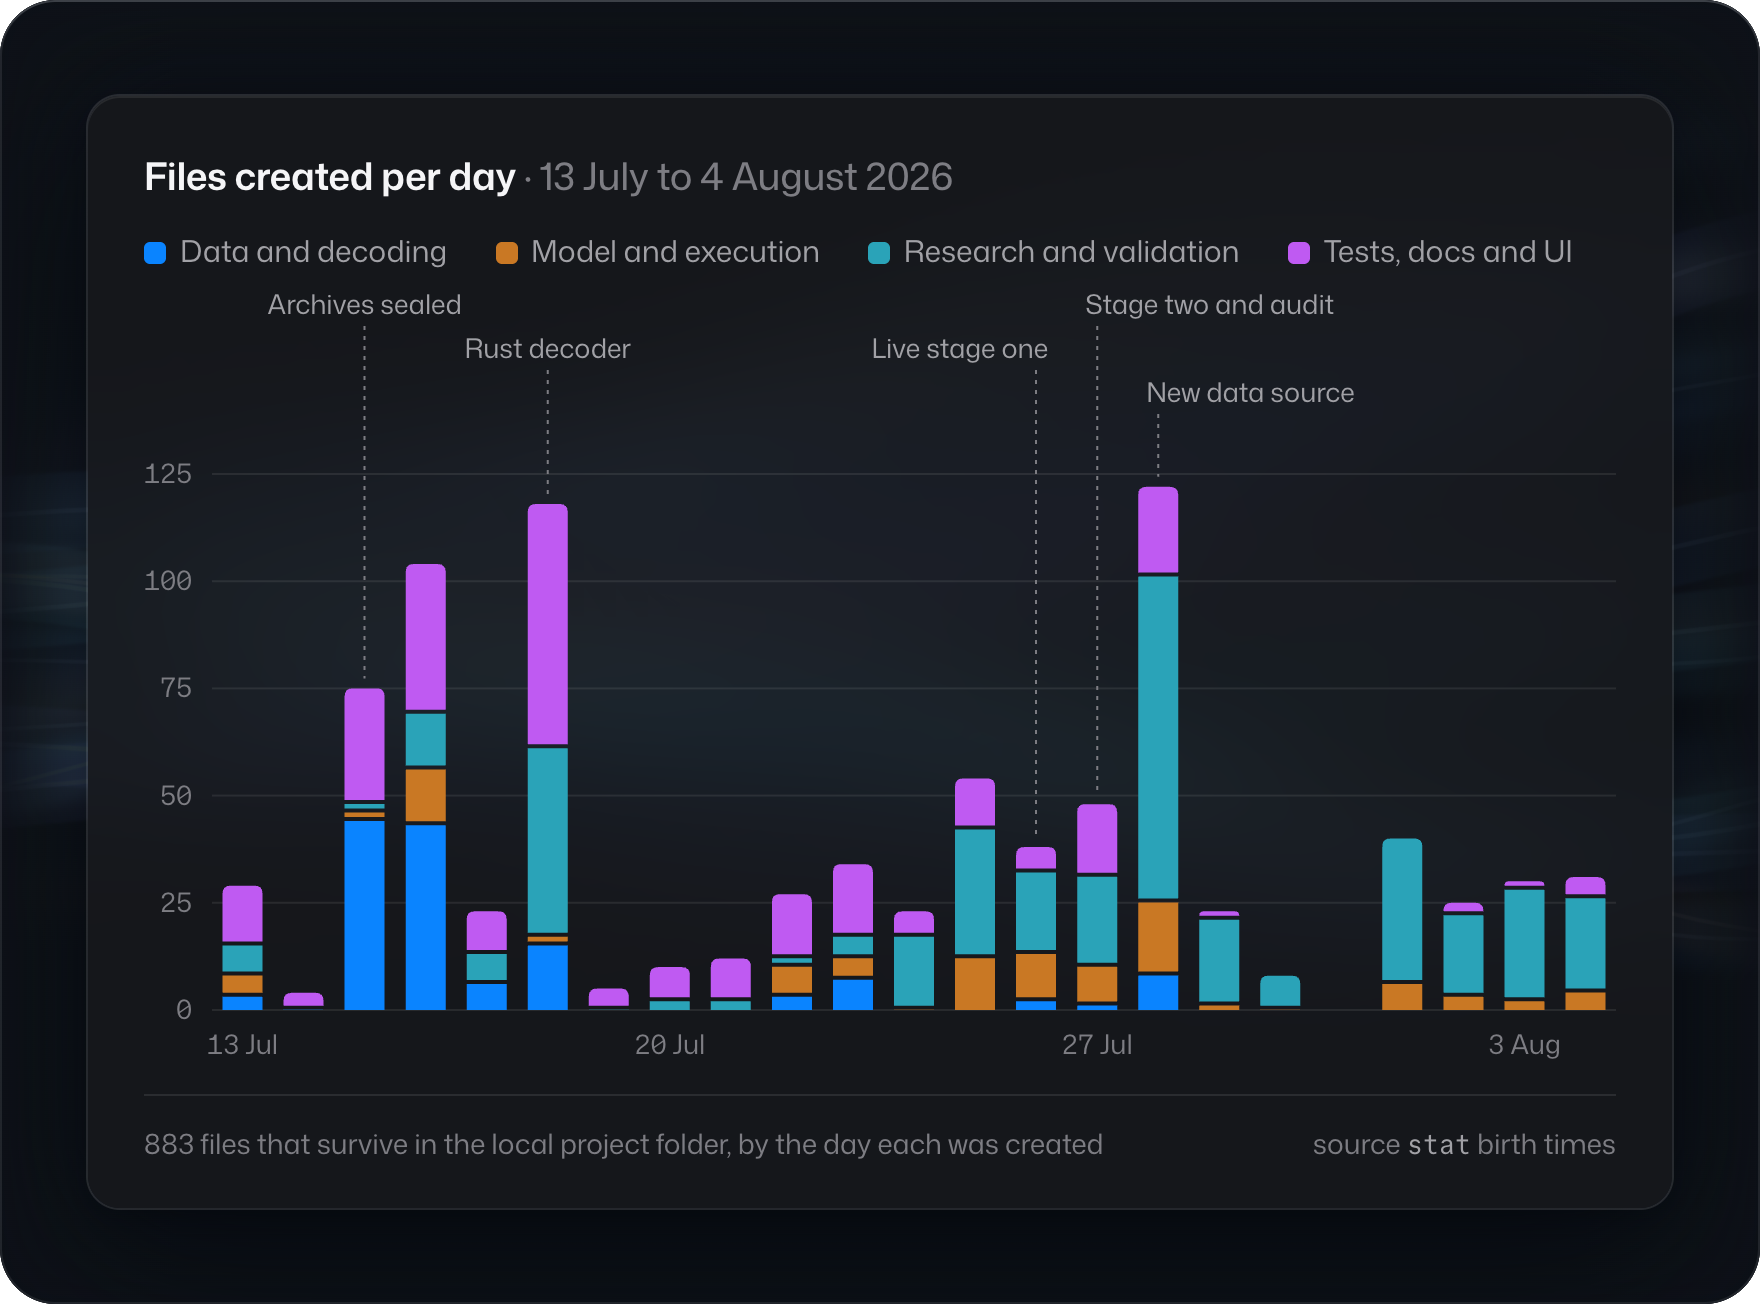
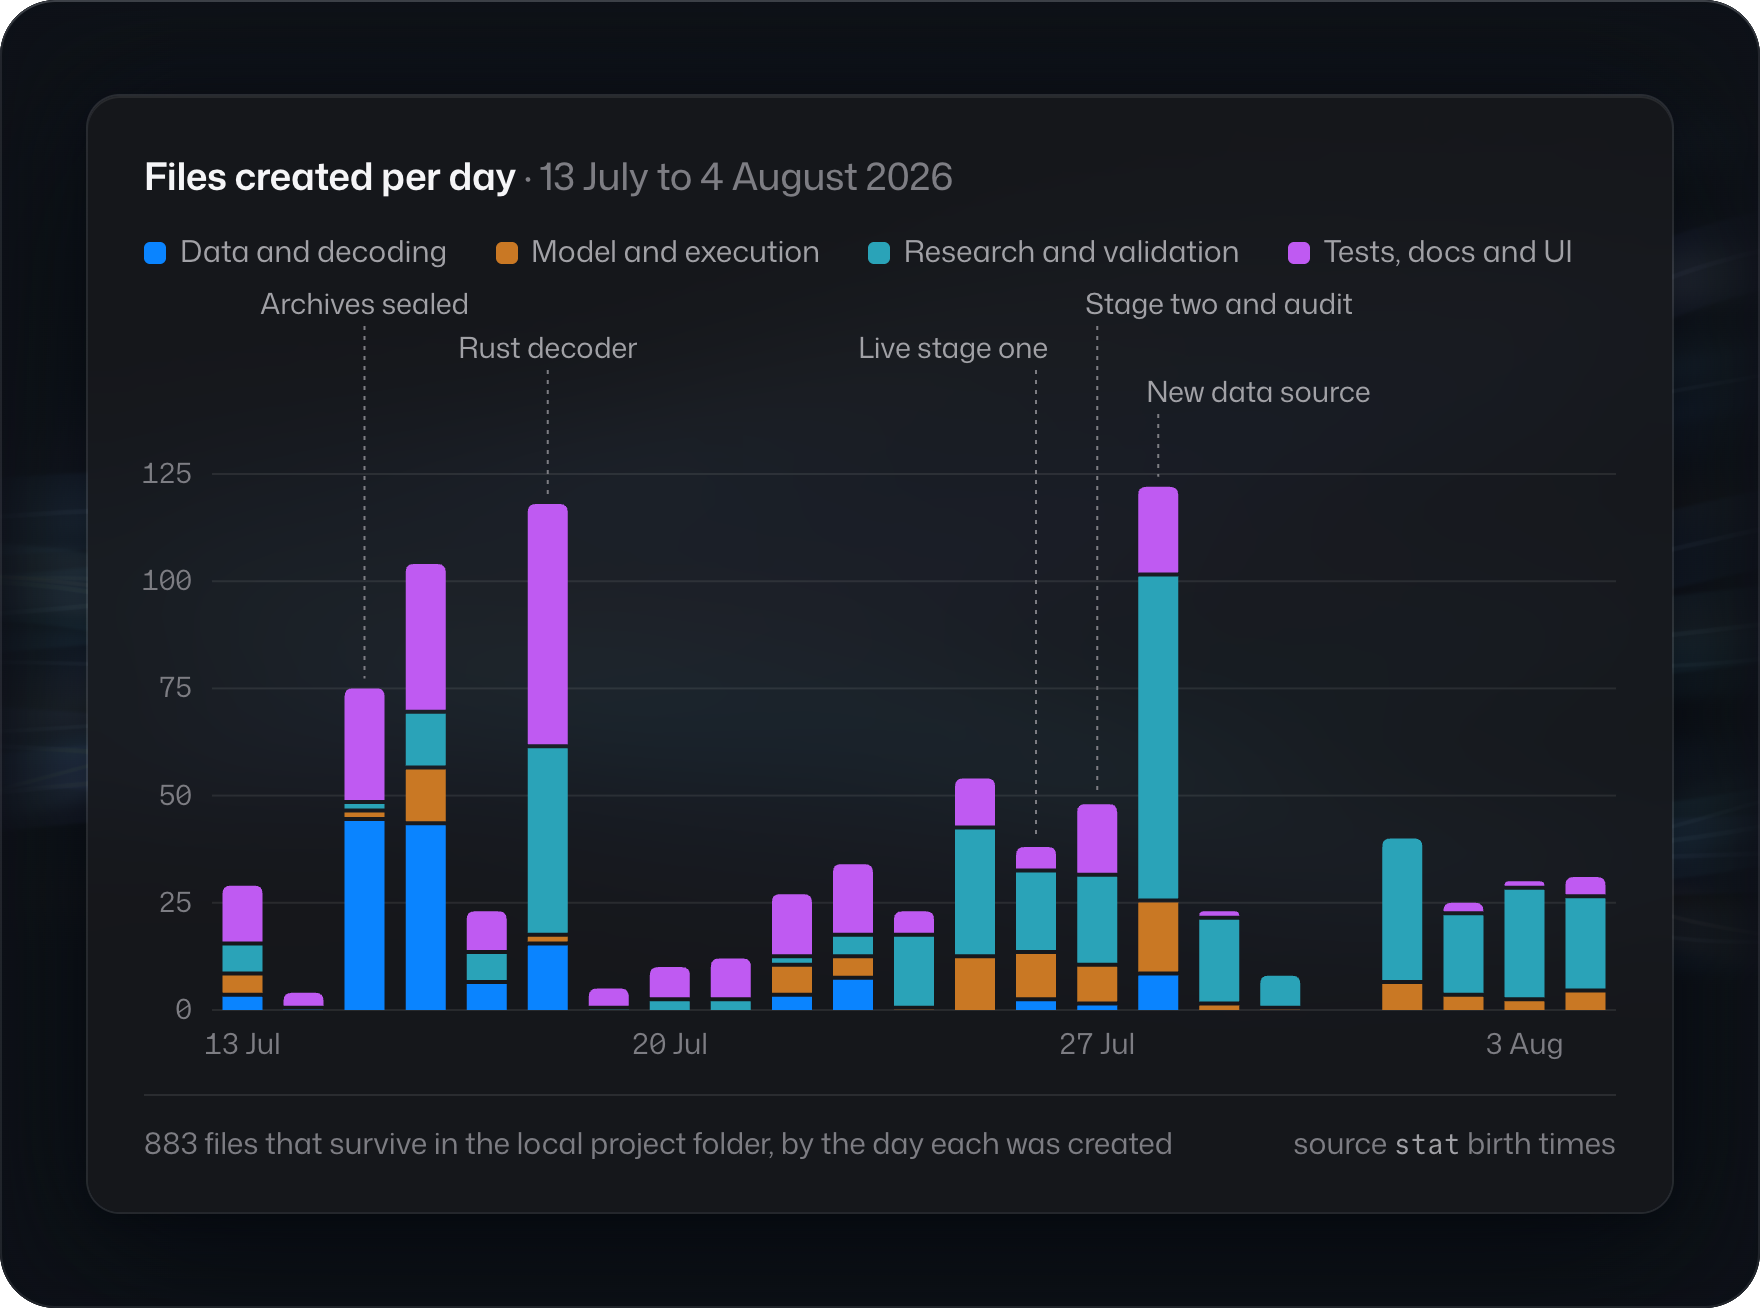
README: glass lockup, history and roadmap sections, run steps first
The header is one lockup of the app icon and the film's glass wordmark,
rendered from the film's own shader. Quick start now follows the opening,
a History section with the activity timeline sits after Background, and
a Roadmap section with its figure and a task list follows Development.

diff --git a/README.md b/README.md
@@ -1,11 +1,9 @@
 <p align="center">
   <picture>
-    <source media="(prefers-color-scheme: dark)" srcset="assets/icon-dark.png">
-    <img src="assets/icon-light.png" width="88" alt="PumpQuant icon">
+    <source media="(prefers-color-scheme: light)" srcset="assets/lockup-light.png">
+    <img src="assets/lockup.png" width="469" alt="PumpQuant">
   </picture>
 </p>
-
-<h1 align="center">PumpQuant</h1>
 
 <h3 align="center">Backtesting engine for Pump.fun, Solana's token-launch market</h3>
 
@@ -14,7 +12,7 @@
   <a href="#how-it-works"><b>How it works</b></a> ·
   <a href="#background"><b>Background</b></a> ·
   <a href="docs/PARITY_CASE_STUDY.md"><b>Case study</b></a> ·
-  <a href="ROADMAP.md"><b>Roadmap</b></a>
+  <a href="#roadmap"><b>Roadmap</b></a>
 </p>
 
 <p align="center">
@@ -55,32 +53,6 @@ It is for developers and researchers who build trading strategies for Pump.fun a
 
 **Built with** Python 3.12+ and Rust. DuckDB and PyArrow handle the market data, NumPy and the arch library the statistics, and two Rust crates decode transactions and run the parallel strategy search. The dashboard is a small local web app, served by Python's standard library and drawn with TradingView's Lightweight Charts.
 
-## The dashboard
-
-`pumpquant preview` opens the dashboard on a demo run. It leads with the answer, then compares the test periods, shows how each one was tested, and replays any trade:
-
-<p align="center">
-  <picture>
-    <source media="(prefers-color-scheme: light)" srcset="assets/scene-answer-light.png">
-    <img src="assets/scene-answer.png" width="410" alt="The dashboard's answer to whether a momentum rule holds up on data it has never seen: profitable in 2 of 3 test periods, 47 outcomes counted.">
-  </picture>
-  <picture>
-    <source media="(prefers-color-scheme: light)" srcset="assets/scene-periods-light.png">
-    <img src="assets/scene-periods.png" width="410" alt="The combined result, +0.217 SOL across all test periods, beside test period 1 at -0.127 SOL and test period 2 at +0.268 SOL.">
-  </picture>
-  <picture>
-    <source media="(prefers-color-scheme: light)" srcset="assets/scene-replay-light.png">
-    <img src="assets/scene-replay.png" width="410" alt="A replayed take-profit trade on token #20: the signal, a buy one second later and a sell five seconds after that, +0.037 SOL after fees.">
-  </picture>
-  <picture>
-    <source media="(prefers-color-scheme: light)" srcset="assets/scene-method-light.png">
-    <img src="assets/scene-method.png" width="410" alt="How each period is tested, drawn to scale: learn on the earlier tokens (18, then 24, then 30), then test on the next six.">
-  </picture>
-</p>
-
-> [!NOTE]
-> The demo runs on generated data: 36 simulated tokens, not market prices. The generator plants a weak momentum signal so the search has something to find. The demo shows how the method works, not whether a strategy makes money.
-
 ## Quick start
 
 PumpQuant needs Python 3.12 or later. Install it with the data and research extras, then run the two examples and the dashboard:
@@ -120,6 +92,32 @@ print(f"0.1 SOL buys {buy.base_amount / 1e6:,.0f} tokens")
 
 It prints `0.1 SOL buys 3,529,605 tokens`. The second half lets someone else's 1 SOL buy land first, and the same 0.1 SOL then buys 6.3% fewer tokens. That is why every replay in PumpQuant carries its real delay. `pumpquant demo` prints the demo's full report as JSON, including the rule each test period selected.
 
+## The dashboard
+
+`pumpquant preview` opens the dashboard on a demo run. It leads with the answer, then compares the test periods, shows how each one was tested, and replays any trade:
+
+<p align="center">
+  <picture>
+    <source media="(prefers-color-scheme: light)" srcset="assets/scene-answer-light.png">
+    <img src="assets/scene-answer.png" width="410" alt="The dashboard's answer to whether a momentum rule holds up on data it has never seen: profitable in 2 of 3 test periods, 47 outcomes counted.">
+  </picture>
+  <picture>
+    <source media="(prefers-color-scheme: light)" srcset="assets/scene-periods-light.png">
+    <img src="assets/scene-periods.png" width="410" alt="The combined result, +0.217 SOL across all test periods, beside test period 1 at -0.127 SOL and test period 2 at +0.268 SOL.">
+  </picture>
+  <picture>
+    <source media="(prefers-color-scheme: light)" srcset="assets/scene-replay-light.png">
+    <img src="assets/scene-replay.png" width="410" alt="A replayed take-profit trade on token #20: the signal, a buy one second later and a sell five seconds after that, +0.037 SOL after fees.">
+  </picture>
+  <picture>
+    <source media="(prefers-color-scheme: light)" srcset="assets/scene-method-light.png">
+    <img src="assets/scene-method.png" width="410" alt="How each period is tested, drawn to scale: learn on the earlier tokens (18, then 24, then 30), then test on the next six.">
+  </picture>
+</p>
+
+> [!NOTE]
+> The demo runs on generated data: 36 simulated tokens, not market prices. The generator plants a weak momentum signal so the search has something to find. The demo shows how the method works, not whether a strategy makes money.
+
 ## How it works
 
 PumpQuant follows the path a trade idea takes, from raw chain data to a verdict. Each stage is its own package, drawn here in reading order:
@@ -157,7 +155,7 @@ examples/        the Quick start scripts and the recorded demo output
 scripts/         the Rust and Python decoder parity check
 schemas/         the pinned Pump program event layouts
 docs/            architecture, decisions, status, provenance and the case study
-ROADMAP.md       the work still ahead
+ROADMAP.md       what comes next
 ```
 
 Each module's original name is in [docs/MODULE-MAP.md](docs/MODULE-MAP.md).
@@ -191,6 +189,17 @@ A take-profit is a sell triggered when the price reaches its target. The price r
 
 </details>
 
+## History
+
+PumpQuant was built locally from 13 July 2026: first the data archives and the decoder, then the research engine, two live stages, the audit and the rebuild it led to. It was first published to GitHub on 4 November 2026, and the [project history](docs/HISTORY.md) dates the time before from file creation times and the project's own logs. The files created each day, by area:
+
+<picture>
+  <source media="(prefers-color-scheme: light)" srcset="assets/timeline-light.png">
+  <img src="assets/timeline.png" width="100%" alt="Stacked bar chart of files created per day in the local PumpQuant folder from 13 July to 4 August 2026, by area: data and decoding, model and execution, research and validation, and tests, docs and UI. Peaks on 15 and 16 July (archives sealed), 18 July (Rust decoder) and 28 July (new data source); live stage one on 26 July, stage two and the audit on 27 July.">
+</picture>
+
+<p align="center"><sub>The 883 files that survive in the local folder, by the day each was created. <a href="docs/HISTORY.md">The history</a> dates every phase and names its sources.</sub></p>
+
 ## Development
 
 One command runs every check: ruff, mypy in strict mode on 112 source files, the 508 Python tests, the two examples, the 16 Rust tests with warnings as errors, and a parity check of the Rust decoder against the Python one on 220 fixtures.
@@ -208,6 +217,27 @@ Its output on this repository:
 
 <p align="center"><sub>An excerpt of a real run on 4 November 2026; progress, compiler lines and the examples' output are left out. <a href="docs/STATUS.md">Status</a> lists every verified result, with exact versions.</sub></p>
 
+## Roadmap
+
+This is the first public release. [ROADMAP.md](ROADMAP.md) plans what follows in three steps: finish the release now, then build the product around the engine, then take tested strategies live and beyond Pump.fun.
+
+<picture>
+  <source media="(prefers-color-scheme: light)" srcset="assets/roadmap-light.png">
+  <img src="assets/roadmap.png" width="100%" alt="The roadmap, measured on 4 November 2026. Now: publish the CI workflow and tag v0.1.0; split the three modules over 1,500 lines and the 30 functions over 150 lines; raise test coverage from 77% (event_screen.py 32%, event_research.py 37%, bigquery/daily.py 31%, dashboard/server.py 56%) and remove four fork warnings; run clippy and add benchmarks; phone-width figures and visual polish. Next: desktop apps, a guided strategy builder, easy data import and plainer wording, with tested integrations. Later: live trading from a tested strategy, and other blockchains and launch platforms.">
+</picture>
+
+- [ ] Publish the CI workflow, which runs the `make check` targets on Python 3.12, 3.13 and 3.14
+- [ ] Tag `v0.1.0`, with a changelog, the wheel and the source archive
+- [ ] Split the three modules over 1,500 lines and the 30 functions over 150 lines, keeping every output byte-identical
+- [ ] Test the event screens end to end (32% and 37% covered) and the BigQuery execute path (31%)
+- [ ] Run clippy on both Rust crates and add reproducible benchmarks
+- [ ] Desktop apps for Apple silicon Macs and for Windows, as the main way to use PumpQuant
+- [ ] A guided strategy builder that creates and tests a strategy without code
+- [ ] Data import from common file formats, and official chain data in one step
+- [ ] Move a tested strategy to live trading in a few steps, with a live status view for each one
+
+The [full roadmap](ROADMAP.md) says what done looks like for every item. More will be added as the work goes on.
+
 ## Documentation
 
 - [History](docs/HISTORY.md): how the project was built, from the first files in July 2026 to this release
@@ -216,7 +246,7 @@ Its output on this repository:
 - [Case study](docs/PARITY_CASE_STUDY.md): the audit that led to the rebuild
 - [Status](docs/STATUS.md): what was verified for this release, its scope and its limits
 - [Provenance](docs/PROVENANCE.md): what changed in this release, third-party notices and licences
-- [Roadmap](ROADMAP.md): the work still ahead
+- [Roadmap](ROADMAP.md): what comes next
 
 ## License
 
